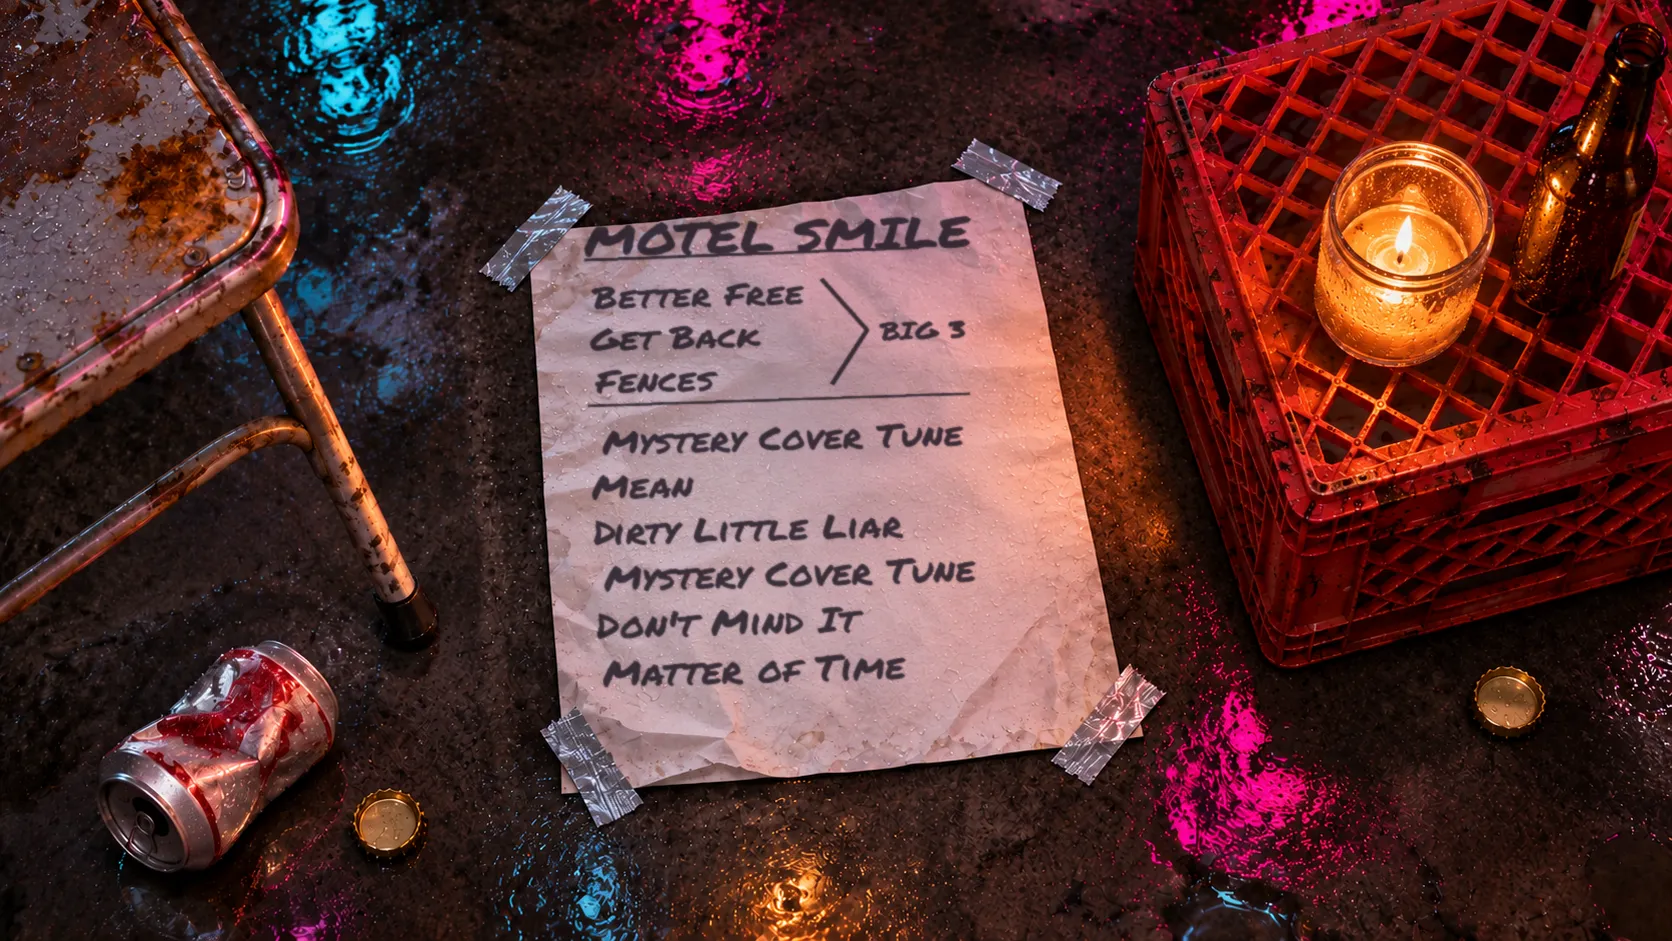
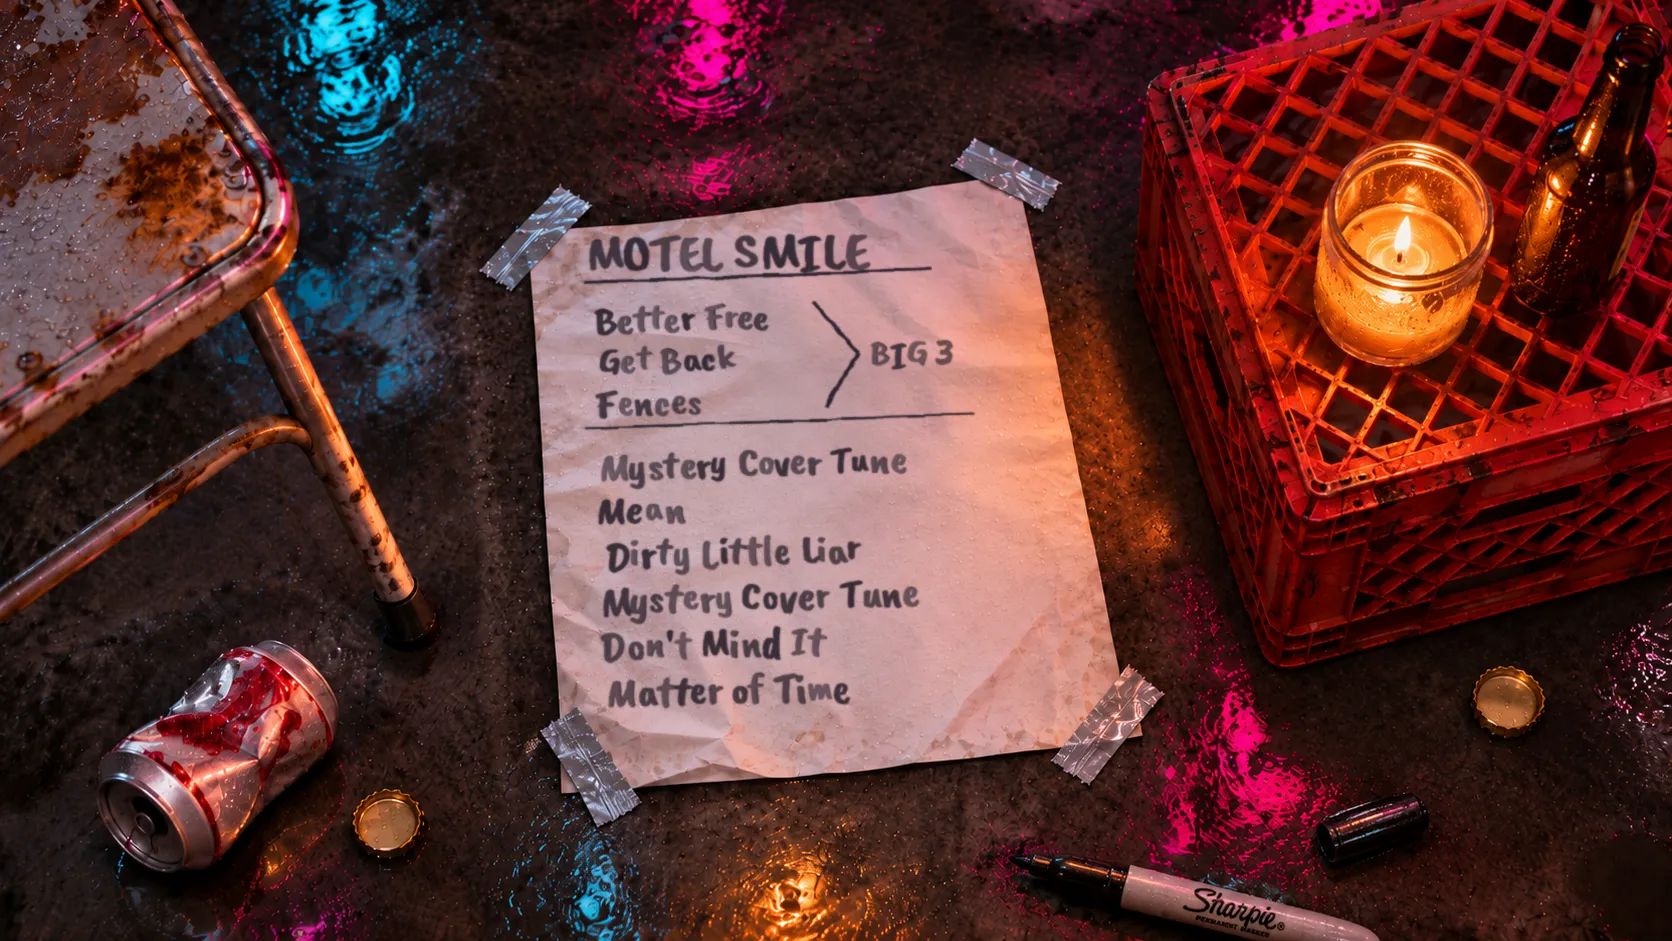
Setlist: handwritten marker lettering; Sharpie in the overhead shots
Claude-Session: https://claude.ai/code/session_011gssdMsenVXumrh9a32rRB

diff --git a/index.html b/index.html
@@ -4540,7 +4540,7 @@ body.ph .sign{font-size:clamp(32px,10vw,46px)!important;margin-top:2px!important
 @media (prefers-reduced-motion:reduce){#sl .sl-wrap,#sl .sl-f{transition:none}#play .sl-curl{animation:none}}
 </style>
 <div id="sl" aria-hidden="true" role="dialog" aria-label="The setlist under the crate">
-  <div class="sl-wrap"><img class="sl-f f1" alt="" data-src="img/hang/sl1.webp?v=3" width="1672" height="941"><img class="sl-f f2" alt="" data-src="img/hang/sl2.webp?v=3" width="1672" height="941"><img class="sl-f f3 sl-bg" alt="Tonight's setlist, gaffer-taped to the roof: the Big 3 (Better Free, Get Back, Fences), then Mystery Cover Tune, Mean, Dirty Little Liar, Mystery Cover Tune, Don't Mind It, Matter of Time" data-src="img/hang/sl3.webp?v=3" width="1672" height="941"></div>
+  <div class="sl-wrap"><img class="sl-f f1" alt="" data-src="img/hang/sl1.webp?v=4" width="1672" height="941"><img class="sl-f f2" alt="" data-src="img/hang/sl2.webp?v=4" width="1672" height="941"><img class="sl-f f3 sl-bg" alt="Tonight's setlist, gaffer-taped to the roof: the Big 3 (Better Free, Get Back, Fences), then Mystery Cover Tune, Mean, Dirty Little Liar, Mystery Cover Tune, Don't Mind It, Matter of Time" data-src="img/hang/sl3.webp?v=4" width="1672" height="941"></div>
   <div class="sl-shade"></div>
   <button class="sl-x" type="button">✕ Back to the roof</button>
   <div class="sl-hint">Tonight’s setlist</div>
